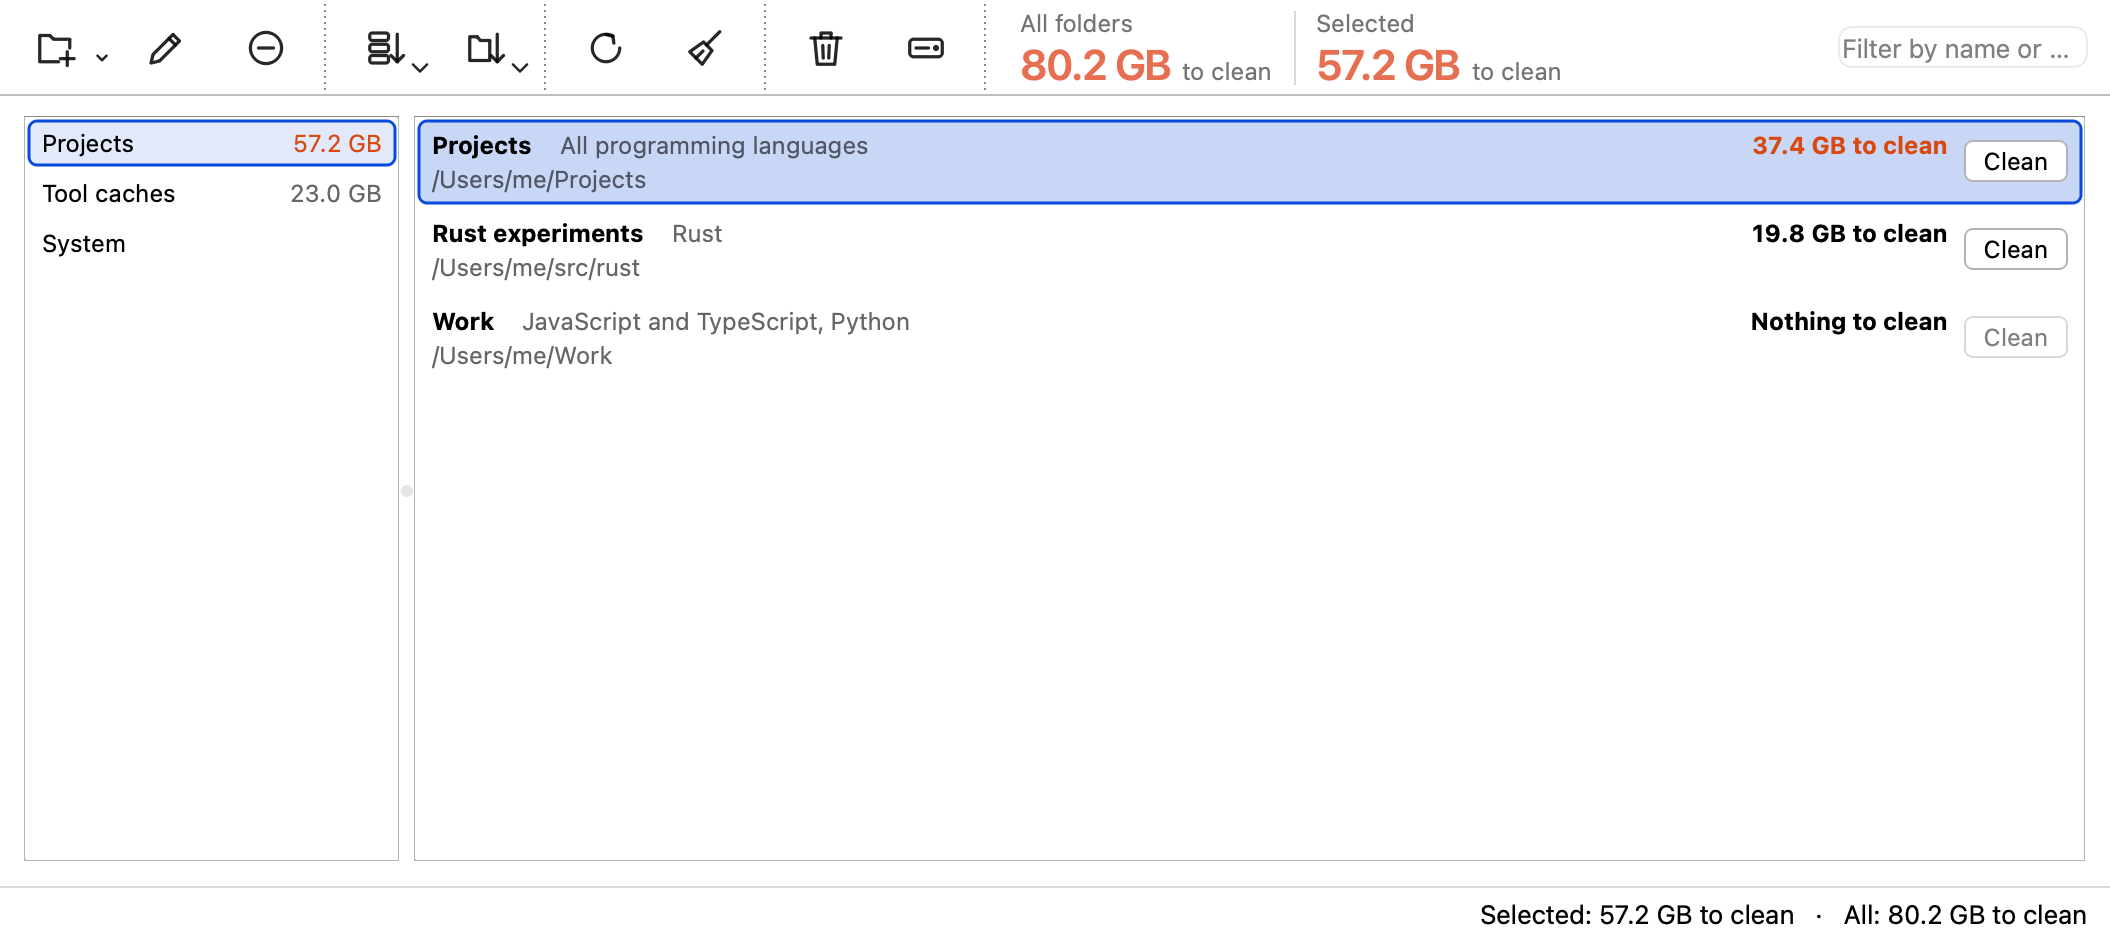
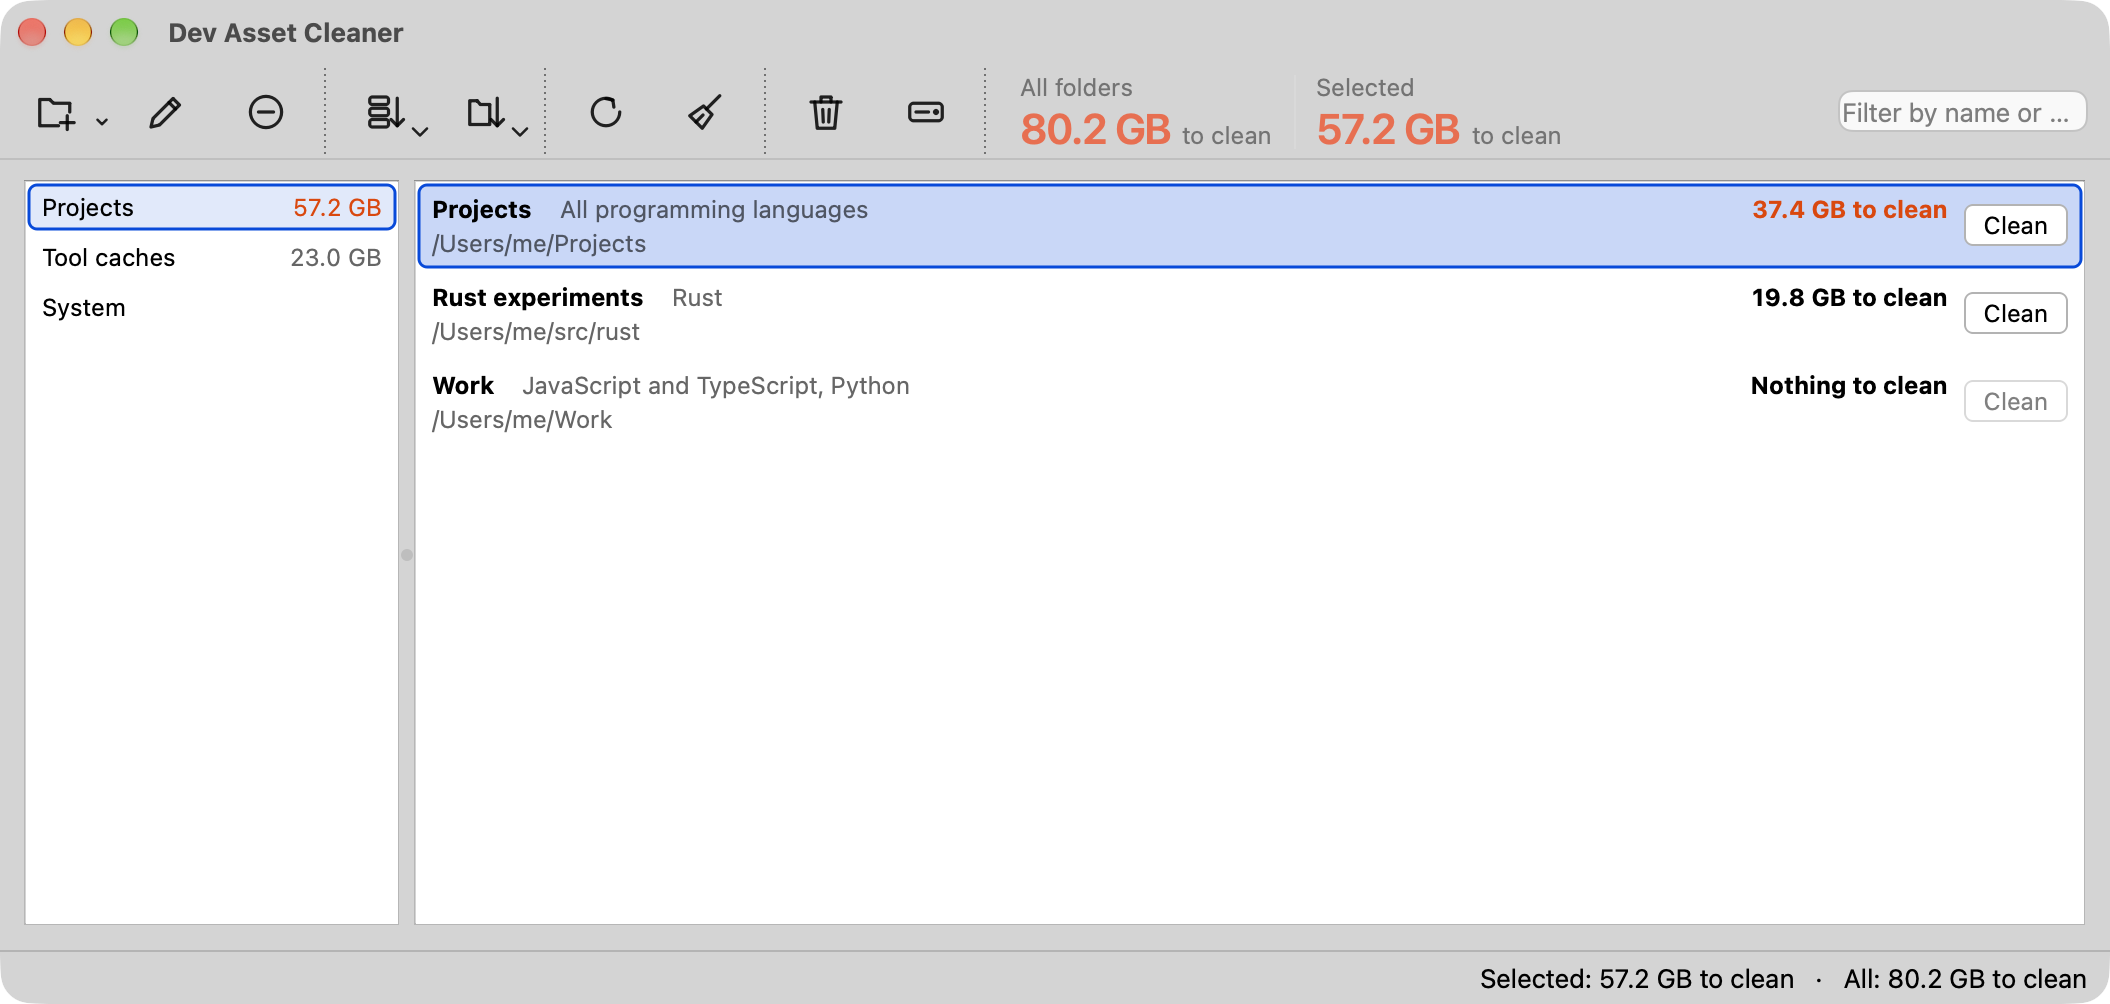
Capture the macOS screenshot with ScreenCaptureKit
screencapture -l fails for every window on macOS 27, so the screenshot
lost its title bar. ScreenCaptureKit still captures a single window.

diff --git a/tools/WindowCapture_mac.mm b/tools/WindowCapture_mac.mm
@@ -1,0 +1,114 @@
+#include "WindowCapture_mac.h"
+
+#include <QCoreApplication>
+#include <QElapsedTimer>
+#include <QFile>
+#include <QThread>
+
+#include <atomic>
+#include <cstdio>
+
+#import <Foundation/Foundation.h>
+#import <ImageIO/ImageIO.h>
+#import <ScreenCaptureKit/ScreenCaptureKit.h>
+
+namespace {
+
+// Runs Qt's event loop until done is set or the time runs out. ScreenCaptureKit answers on its own
+// queues, so the main thread only has to wait.
+bool waitFor(const std::atomic<bool> &done)
+{
+    QElapsedTimer timer;
+    timer.start();
+    while (!done.load() && timer.elapsed() < 10000) {
+        QCoreApplication::processEvents();
+        QThread::msleep(10);
+    }
+    return done.load();
+}
+
+bool savePng(CGImageRef image, const QString &out)
+{
+    NSURL *url = [NSURL fileURLWithPath:out.toNSString()];
+    CGImageDestinationRef destination = CGImageDestinationCreateWithURL(
+        (__bridge CFURLRef)url, CFSTR("public.png"), 1, nullptr);
+    if (!destination)
+        return false;
+    CGImageDestinationAddImage(destination, image, nullptr);
+    const bool ok = CGImageDestinationFinalize(destination);
+    CFRelease(destination);
+    return ok;
+}
+
+} // namespace
+
+bool captureWindowMac(unsigned int windowNumber, const QString &out)
+{
+    if (@available(macOS 14, *)) {
+        __block SCShareableContent *content = nil;
+        __block NSError *contentError = nil;
+        std::atomic<bool> haveContent{false};
+        std::atomic<bool> *haveContentPtr = &haveContent;
+        [SCShareableContent getShareableContentExcludingDesktopWindows:YES
+                                                   onScreenWindowsOnly:YES
+                                                     completionHandler:^(SCShareableContent *c,
+                                                                         NSError *e) {
+                                                         content = c;
+                                                         contentError = e;
+                                                         haveContentPtr->store(true);
+                                                     }];
+        if (!waitFor(haveContent) || !content) {
+            std::fprintf(stderr, "ScreenCaptureKit: %s\n",
+                         contentError ? contentError.localizedDescription.UTF8String
+                                      : "no shareable content");
+            return false;
+        }
+
+        SCWindow *window = nil;
+        for (SCWindow *w in content.windows) {
+            if (w.windowID == windowNumber) {
+                window = w;
+                break;
+            }
+        }
+        if (!window) {
+            std::fprintf(stderr, "ScreenCaptureKit: window %u not found\n", windowNumber);
+            return false;
+        }
+
+        SCContentFilter *filter = [[SCContentFilter alloc] initWithDesktopIndependentWindow:window];
+        SCStreamConfiguration *config = [[SCStreamConfiguration alloc] init];
+        const CGRect rect = filter.contentRect;
+        const CGFloat scale = filter.pointPixelScale;
+        config.width = static_cast<size_t>(rect.size.width * scale);
+        config.height = static_cast<size_t>(rect.size.height * scale);
+        config.showsCursor = NO;
+        config.ignoreShadowsSingleWindow = YES;
+        config.capturesAudio = NO;
+
+        __block CGImageRef image = nullptr;
+        __block NSError *captureError = nil;
+        std::atomic<bool> haveImage{false};
+        std::atomic<bool> *haveImagePtr = &haveImage;
+        [SCScreenshotManager captureImageWithFilter:filter
+                                      configuration:config
+                                  completionHandler:^(CGImageRef i, NSError *e) {
+                                      if (i)
+                                          image = CGImageRetain(i);
+                                      captureError = e;
+                                      haveImagePtr->store(true);
+                                  }];
+        if (!waitFor(haveImage) || !image) {
+            std::fprintf(stderr, "ScreenCaptureKit: %s\n",
+                         captureError ? captureError.localizedDescription.UTF8String
+                                      : "no image");
+            if (image)
+                CGImageRelease(image);
+            return false;
+        }
+        const bool ok = savePng(image, out);
+        CGImageRelease(image);
+        return ok;
+    }
+    return false;
+}

diff --git a/tools/make_screenshot.cpp b/tools/make_screenshot.cpp
@@ -6,7 +6,7 @@
 //   build/windows/bin/Release/make_screenshot docs/screenshot.png
 //
 // It captures the window with its title bar: through PrintWindow on Windows, and through
-// screencapture on macOS, where the terminal needs the Screen Recording permission. Without it,
+// ScreenCaptureKit on macOS, where the terminal needs the Screen Recording permission. Without it,
 // it saves the window's contents only, and says so.
 //
 // The data lives in a temporary file, so the real data is not touched.
@@ -23,8 +23,9 @@
 #include <QThread>
 
 #ifdef Q_OS_MACOS
+#include "WindowCapture_mac.h"
+
 #include <CoreGraphics/CoreGraphics.h>
-#include <QProcess>
 #include <unistd.h>
 #endif
 
@@ -119,7 +120,7 @@ void fill(Store &store, Monitor &monitor)
 }
 
 #ifdef Q_OS_MACOS
-// The number of this process's normal window, as screencapture -l wants it, or 0.
+// The window server number of this process's normal window, or 0.
 int windowNumber()
 {
     CFArrayRef list = CGWindowListCopyWindowInfo(kCGWindowListOptionOnScreenOnly, kCGNullWindowID);
@@ -178,8 +179,8 @@ QImage windowImage(QWidget &window)
 #endif
 
 // Saves the window to out. grab() leaves out the title bar (and on macOS the toolbar background),
-// so on macOS the window server takes the picture instead (-o leaves out the shadow), and on
-// Windows PrintWindow does.
+// so on macOS ScreenCaptureKit takes the picture instead, without the shadow, and on Windows
+// PrintWindow does.
 bool capture(QWidget &window, const QString &out)
 {
 #ifdef Q_OS_WIN
@@ -190,13 +191,9 @@ bool capture(QWidget &window, const QString &out)
 #endif
 #ifdef Q_OS_MACOS
     const int number = windowNumber();
-    if (number != 0
-        && QProcess::execute(QStringLiteral("screencapture"),
-                             {QStringLiteral("-x"), QStringLiteral("-o"),
-                              QStringLiteral("-l%1").arg(number), out})
-               == 0)
+    if (number != 0 && captureWindowMac(static_cast<unsigned int>(number), out))
         return true;
-    std::fprintf(stderr, "screencapture failed (Screen Recording permission?); saving the "
+    std::fprintf(stderr, "window capture failed (Screen Recording permission?); saving the "
                          "window contents without the title bar\n");
 #endif
     return window.grab().save(out);

diff --git a/tools/WindowCapture_mac.h b/tools/WindowCapture_mac.h
@@ -1,0 +1,8 @@
+#pragma once
+
+#include <QString>
+
+// Saves the on-screen window with this window server number, title bar included and shadow left
+// out, as a PNG file through ScreenCaptureKit (macOS 14 and later). Needs the Screen Recording
+// permission. screencapture -l can no longer capture a single window on macOS 27.
+bool captureWindowMac(unsigned int windowNumber, const QString &out);

diff --git a/CLAUDE.md b/CLAUDE.md
@@ -149,8 +149,10 @@ work in the main checkout's working tree, which stays on `master`.
 - `docs/screenshot-macos.png` and `docs/screenshot.png` (Windows) are drawn with made-up data
   by the `make_screenshot` target, through `Monitor::setResultForDisplay` and
   `setVolumesForDisplay`. Each is made on its own platform. The tool captures the real window
-  with its title bar: with `PrintWindow` on Windows, and with `screencapture` on macOS, which
-  needs the Screen Recording permission.
+  with its title bar: with `PrintWindow` on Windows, and with ScreenCaptureKit on macOS
+  (`tools/WindowCapture_mac.mm`; `screencapture -l` fails on macOS 27), which needs the Screen
+  Recording permission. Claude Code's shell is refused that permission; run the tool from the
+  Terminal panel.
 - Qt 6.8 crashed on macOS 27 in two places, worked around as in favdir and kept with Qt 6.10.
   `TrayIcon` uses a native `NSStatusItem` instead of `QSystemTrayIcon` (fixed in Qt 6.12); its
   menu is rebuilt from the `QMenu` each time it opens. `Icons::toolIcon` draws the toolbar

diff --git a/BUILDING.md b/BUILDING.md
@@ -55,8 +55,9 @@ made-up folders by the `make_screenshot` target. After changing the look of the 
 it with `cmake --build --preset macos --target make_screenshot`, then run
 `build/macos/bin/Release/make_screenshot docs/screenshot-macos.png`. On Windows, use the
 `windows` preset and `docs/screenshot.png`. On Windows the tool captures the window with
-`PrintWindow`. On macOS it uses `screencapture`, which needs the Screen Recording permission;
-without it, the picture has no title bar.
+`PrintWindow`. On macOS it uses ScreenCaptureKit, because `screencapture -l` no longer captures
+a single window on macOS 27. The app that runs the tool, such as the terminal, needs the Screen
+Recording permission; without it, the picture has no title bar.
 
 ## Tasks
 
